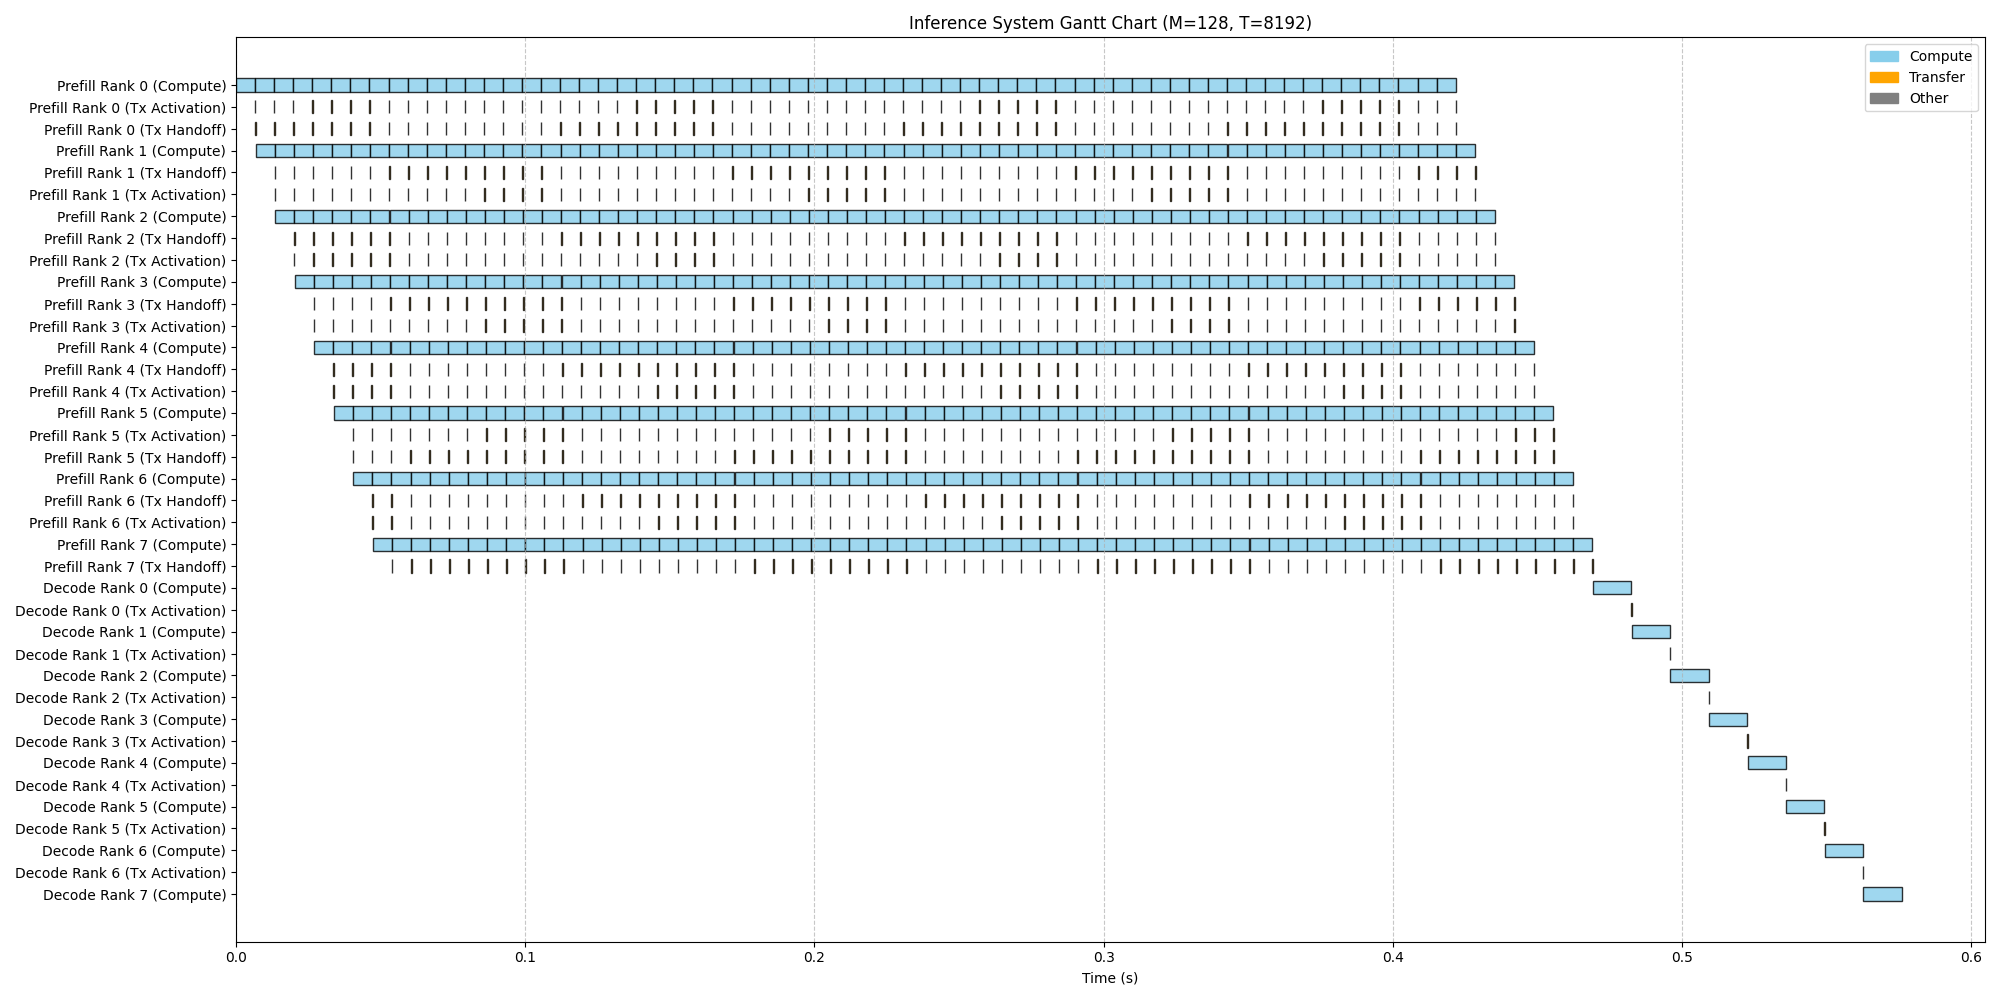
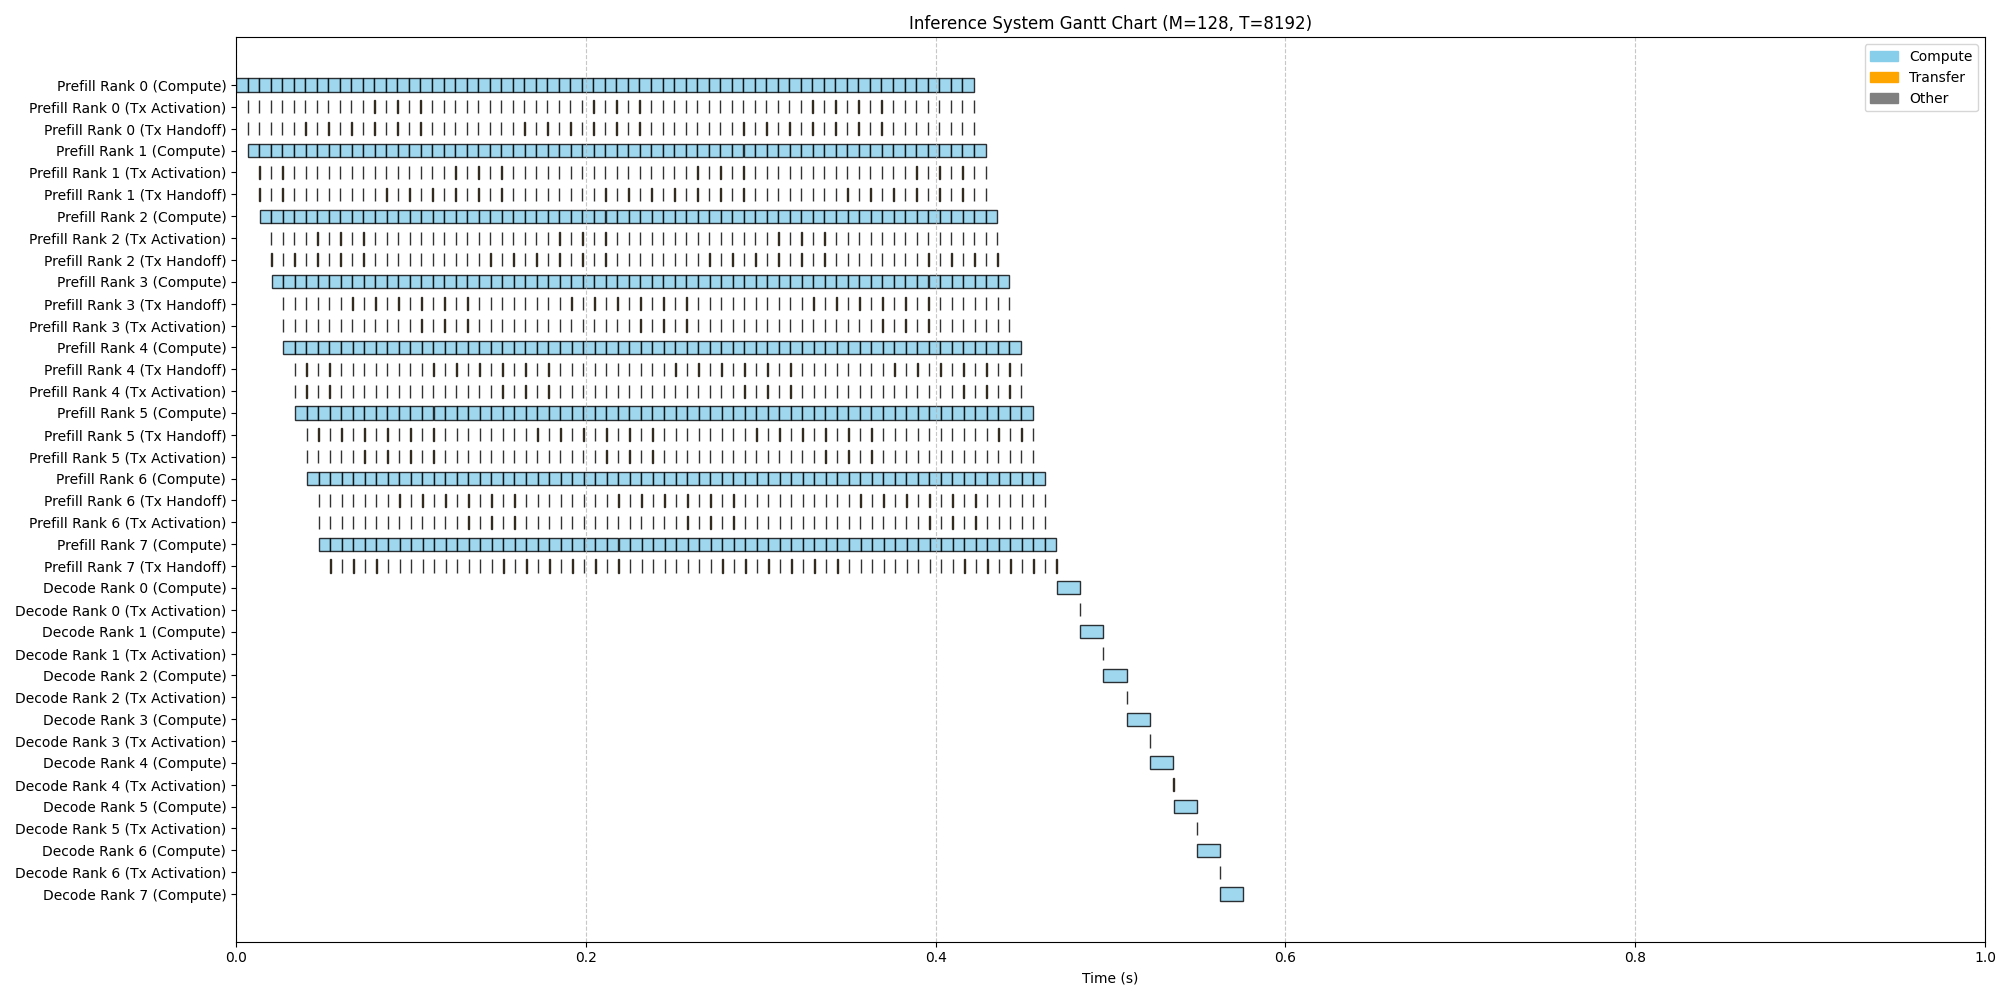
Minor tweaks.  Added simulator UTs.

diff --git a/test_simulator.py b/test_simulator.py
@@ -1,0 +1,166 @@
+import unittest
+from simulator import CommChannel, CommNetworkSimulator, DataBatch, ComputeJob
+
+class TestCommNetworkSimulator(unittest.TestCase):
+    def test_three_custom_commlinks_bandwidth(self):
+        """
+        Test scenario: Data transfer over three custom CommLinks with controlled bandwidths.
+
+        Setup:
+        - Three custom CommChannel objects are created with bandwidths of 10, 20, and 30 Gbps, and latencies of 10 us each.
+        - A DataBatch of 1 GB is sent through all three links in sequence.
+        - The CommNetworkSimulator is used to simulate the transfer.
+
+        Verification:
+        - The bottleneck bandwidth is the lowest (10 Gbps), so the transfer rate is limited by link1.
+        - The expected total time is the sum of all link latencies plus the transmission time at the bottleneck bandwidth.
+        - The test asserts that the batch's end_time matches the expected time within two decimal places.
+
+        Expected result:
+        - The simulation should complete with the batch's end_time matching the calculated expected time.
+        """
+        # Create three custom CommChannel objects with controlled bandwidths
+        class CustomCommChannel(CommChannel):
+            def __init__(self, name, bandwidth_gbps, latency_us):
+                self._name = name
+                self._attrs = {
+                    "bw_gbps": (bandwidth_gbps, bandwidth_gbps),
+                    "lat_us": (latency_us, latency_us)
+                }
+        
+        # Bandwidths in Gbps
+        link1 = CustomCommChannel("Link1", 10, 10)  # 10 Gbps
+        link2 = CustomCommChannel("Link2", 20, 10)  # 20 Gbps
+        link3 = CustomCommChannel("Link3", 30, 10)  # 30 Gbps
+        
+        # Create a DataBatch that uses all three links in its path
+        batch_size = 1e9  # 1 GB
+        batch = DataBatch(name="test_batch", size_bytes=batch_size, path_channels=[link1, link2, link3])
+        
+        # Create and run the simulator
+        sim = CommNetworkSimulator()
+        sim.add_batch(batch)
+        sim.run(system=DummySystem(), t_delta=0.001)
+        
+        # The bottleneck bandwidth is the lowest (10 Gbps)
+        expected_time = batch_size / link1.bandwidth_bps + link1.latency_s + link2.latency_s + link3.latency_s
+        
+        # Ensure batch.end_time is not None before assertion
+        self.assertIsNotNone(batch.end_time)
+        end_time: float = batch.end_time  # type: ignore[assignment]
+        self.assertAlmostEqual(end_time, float(expected_time), places=2)
+
+    def test_pingpong_two_commlinks_with_compute(self):
+        """
+        Test scenario: Ping-pong a DataBatch between two nodes using two custom CommLinks, 
+        with compute on both nodes before each transmission.
+
+        Setup:
+        - Two custom CommChannel objects are created: linkA (10 Gbps, 10 us) and linkB (20 Gbps, 20 us).
+        - Node A performs compute (0.5s), then sends a 2 GB DataBatch to Node B via linkA.
+        - Node B performs compute (0.3s), then sends a 2 GB DataBatch back to Node A via linkB.
+        - The PingPongSystem class orchestrates the sequence of compute and transfer events.
+
+        Verification:
+        - The test checks the start and end times of each completed compute and batch in the simulator.
+        - It asserts that each event starts immediately after the previous one ends, and that durations 
+          match expected values based on bandwidth and latency.
+        - Specifically, it checks:
+            - computeA: starts at 0, ends at 0.5s
+            - batch1: starts at 0.5s, ends at 0.5s + linkA latency + transmission time
+            - computeB: starts after batch1, ends after its duration
+            - batch2: starts after computeB, ends after linkB latency + transmission time
+
+        Expected result:
+        - All event times should match the calculated expected values within two decimal places.
+        """
+        # Custom CommChannel for controlled bandwidths
+        class CustomCommChannel(CommChannel):
+            def __init__(self, name, bandwidth_gbps, latency_us):
+                self._name = name
+                self._attrs = {
+                    "bw_gbps": (bandwidth_gbps, bandwidth_gbps),
+                    "lat_us": (latency_us, latency_us)
+                }
+
+        # Create two links
+        linkA = CustomCommChannel("LinkA", 10, 10)  # 10 Gbps
+        linkB = CustomCommChannel("LinkB", 20, 20)  # 20 Gbps
+
+        # Simulate two nodes, each with compute before sending/receiving
+        compute_duration_A = 0.5  # seconds
+        compute_duration_B = 0.3  # seconds
+        batch_size = 2e9  # 2 GB
+
+        # Create simulator
+        sim = CommNetworkSimulator()
+
+        # Node A compute
+        computeA = ComputeJob(name="computeA", duration_s=compute_duration_A)
+        sim.add_compute(computeA)
+
+        # Node A sends DataBatch to Node B via linkA
+        batch1 = DataBatch(name="batch1", size_bytes=batch_size, path_channels=[linkA])
+        # Node B compute
+        computeB = ComputeJob(name="computeB", duration_s=compute_duration_B)
+
+        # Node B sends DataBatch back to Node A via linkB
+        batch2 = DataBatch(name="batch2", size_bytes=batch_size, path_channels=[linkB])
+
+        # Custom system to trigger next steps
+        class PingPongSystem:
+            def __init__(self):
+                self.sim = sim
+                self.computeB_added = False
+                self.batch2_added = False
+            def on_data_transfer_complete(self, sim, batch):
+                if batch.name == "batch1" and not self.computeB_added:
+                    sim.add_compute(computeB)
+                    self.computeB_added = True
+                elif batch.name == "batch2":
+                    pass
+                return None
+            def on_compute_complete(self, sim, compute):
+                if compute.name == "computeA" and not self.batch1_added:
+                    sim.add_batch(batch1)
+                    self.batch1_added = True
+                elif compute.name == "computeB" and not self.batch2_added:
+                    sim.add_batch(batch2)
+                    self.batch2_added = True
+
+        system = PingPongSystem()
+        system.batch1_added = False
+        sim.run(system=system, t_delta=0.001)
+
+        # Verification using completed batches and computes
+        # Get completed computes
+        completed_computes = {c.name: c for c in sim.completed_compute}
+        completed_batches = {b.name: b for b in sim.completed_batches}
+
+        # computeA: starts at 0, ends at 0.5
+        self.assertAlmostEqual(completed_computes["computeA"].start_time, 0.0, places=2)
+        self.assertAlmostEqual(completed_computes["computeA"].end_time, compute_duration_A, places=2)
+        # batch1: starts after computeA, ends after latency+transmission
+        expected_batch1_start = compute_duration_A
+        expected_batch1_end = expected_batch1_start + linkA.latency_s + batch_size / linkA.bandwidth_bps
+        self.assertAlmostEqual(completed_batches["batch1"].start_time, expected_batch1_start, places=2)
+        self.assertAlmostEqual(completed_batches["batch1"].end_time, expected_batch1_end, places=2)
+        # computeB: starts after batch1
+        expected_computeB_start = expected_batch1_end
+        expected_computeB_end = expected_computeB_start + compute_duration_B
+        self.assertAlmostEqual(completed_computes["computeB"].start_time, expected_computeB_start, places=2)
+        self.assertAlmostEqual(completed_computes["computeB"].end_time, expected_computeB_end, places=2)
+        # batch2: starts after computeB
+        expected_batch2_start = expected_computeB_end
+        expected_batch2_end = expected_batch2_start + linkB.latency_s + batch_size / linkB.bandwidth_bps
+        self.assertAlmostEqual(completed_batches["batch2"].start_time, expected_batch2_start, places=2)
+        self.assertAlmostEqual(completed_batches["batch2"].end_time, expected_batch2_end, places=2)
+
+class DummySystem:
+    def on_data_transfer_complete(self, sim, batch):
+        return None
+    def on_compute_complete(self, sim, compute):
+        pass
+
+if __name__ == "__main__":
+    unittest.main()

diff --git a/main.py b/main.py
@@ -7,6 +7,8 @@ from DisaggregatedPDSystemPP import DisaggregatedPDSystemPP
 
 # --- Setup and Run ---
 
+# The system works best with PP=8, T=8192, M=128 for large models like LLaMA-3.1-70B.
+
 if __name__ == "__main__":
     # Common Configuration
     # We use H100s to ensure we have enough VRAM for larger contexts in the sweep
@@ -24,7 +26,7 @@ if __name__ == "__main__":
     # Override T and M for specific scenario
     run_config = system_config.copy()
     run_config.update({"T": 8192, "M": 128})
-    
+
     pd_system = DisaggregatedPDSystemPP(**run_config)
 
     sim = CommNetworkSimulator()
@@ -46,7 +48,7 @@ if __name__ == "__main__":
     print(f"Decode VRAM Utilization: {pd_system.decode_vram_util:.2f}%")
 
     # Visualization
-    visualizer = GanttVisualizer(pd_system)
+    visualizer = GanttVisualizer(pd_system, 1.0)
     visualizer.generate(sim)
 
     # --- Parameter Sweep ---

diff --git a/GanttVisualizer.py b/GanttVisualizer.py
@@ -2,11 +2,13 @@ import matplotlib.pyplot as plt
 import matplotlib.patches as mpatches
 
 class GanttVisualizer:
-    def __init__(self, system):
+    def __init__(self, system, chart_duration=None):
         """
         Initialize the visualizer with the target system configuration.
+        Optionally specify the chart's duration (in seconds).
         """
         self.system = system
+        self.chart_duration = chart_duration
 
     def _parse_resource_from_name(self, name):
         # Heuristic to assign a 'row' for the Gantt chart
@@ -106,6 +108,8 @@ class GanttVisualizer:
         ax.legend(handles=handles)
         
         plt.tight_layout()
+        if self.chart_duration is not None:
+            ax.set_xlim(0, self.chart_duration)
         plt.savefig(output_file)
         print(f"Chart saved to {output_file}")
 

diff --git a/simulator.py b/simulator.py
@@ -243,8 +243,8 @@ class DataBatch:
         self.total_latency = sum(c.latency_s for c in self.path)
         self.latency_remaining = self.total_latency
         
-        self.start_time = None
-        self.end_time = None
+        self.start_time: float | None = None
+        self.end_time: float | None = None
 
 class ComputeJob:
     def __init__(self, name, duration_s):
